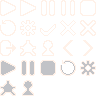
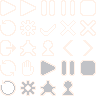
Improve rendering of touch controls

diff --git a/lib/src/appstate/Game/engine/RenderingEngine.cpp b/lib/src/appstate/Game/engine/RenderingEngine.cpp
@@ -239,12 +239,6 @@ void RenderingEngine::renderHud(dgm::Window& window)
     renderHudBackgroundAndHealth(hudOrigin, window);
     renderHudReloadTimeAndModules(hudOrigin, window);
 
-#if defined(ANDROID) || defined(_DEBUG)
-    hudSprite.setTextureRect(iconsClip.getFrame(Icon::Pause2));
-    hudSprite.setPosition({ 2.f, 2.f });
-    window.draw(hudSprite);
-#endif
-
     renderHudStrings(window);
 }
 
@@ -297,9 +291,11 @@ void RenderingEngine::renderHudReloadTimeAndModules(
 void RenderingEngine::renderHudStrings(dgm::Window& window)
 {
     text.setCharacterSize(FONT_BASE_HEIGHT);
+#ifdef _DEBUG
     text.setPosition({ 10.f, 2.f });
     text.setString(fpsCounter.getText());
     window.draw(text);
+#endif
 
     if (scene.survivalGameDirector)
     {
@@ -353,15 +349,48 @@ void RenderingEngine::renderTouchControls(dgm::Window& window)
     auto& model = touchController.getTouchModel();
     dgm::Circle thumb({ 0.f, 0.f }, 16.f);
 
-    for (auto& object : model.objects)
+    // First two objects are joysticks
+    for (auto&& object : model.objects | uni::views::take(2))
     {
         object.touchArea.debugRender(window, sf::Color(128, 128, 128, 128));
-        if (object.kind == TouchObjectKind::Joystick)
-        {
-            thumb.setPosition(object.touchPosition);
-            thumb.debugRender(window, sf::Color(128, 128, 128));
-        }
+        thumb.setPosition(object.touchPosition);
+        thumb.debugRender(window, sf::Color(128, 128, 128));
     }
+
+    const auto buttonRadius = model.objects[2].touchArea.getRadius() * 0.8f;
+
+    const auto offset = sf::Vector2f { buttonRadius, buttonRadius };
+    const auto scale = 2 * buttonRadius / iconsClip.getFrameSize().x;
+    hudSprite.setScale({ scale, scale });
+
+    // Third is pause
+    hudSprite.setTextureRect(iconsClip.getFrame(Icon::Pause2));
+    hudSprite.setPosition(model.objects[2].touchArea.getPosition() - offset);
+    window.draw(hudSprite);
+
+    // Fourth is swap
+    if (scene.loadout.weapons.size() > 1)
+    {
+        model.objects[3].touchArea.debugRender(
+            window, sf::Color(128, 128, 128, 128));
+        hudSprite.setTextureRect(iconsClip.getFrame(Icon::Swap));
+        hudSprite.setPosition(
+            model.objects[3].touchArea.getPosition() - offset);
+        window.draw(hudSprite);
+    }
+
+    // Fifth is interact
+    if (scene.interactionTrigger)
+    {
+        model.objects[4].touchArea.debugRender(
+            window, sf::Color(128, 128, 128, 128));
+        hudSprite.setTextureRect(iconsClip.getFrame(Icon::Hand));
+        hudSprite.setPosition(
+            model.objects[4].touchArea.getPosition() - offset);
+        window.draw(hudSprite);
+    }
+
+    hudSprite.setScale({ 1.f, 1.f });
 }
 
 sf::Angle

diff --git a/lib/src/input/TouchController.cpp b/lib/src/input/TouchController.cpp
@@ -15,10 +15,17 @@ void TouchInput::reset()
 }
 
 std::array<TouchInput, 5u>
-TouchModel::computeLayout(const sf::Vector2u& windowSize)
+TouchModel::computeLayout(const sf::Vector2u& windowSize, const Sizer& sizer)
 {
+    const float buttonRadius = sizer.getBaseContainerHeight();
     const float joystickRadius = windowSize.x * 0.1f;
     const auto windowsSizeF = sf::Vector2f(windowSize);
+
+    const auto rightJoystickOrigin =
+        sf::Vector2f { windowSize.x - joystickRadius,
+                       windowSize.y - joystickRadius };
+    const auto actionButtonBaseDir =
+        sf::Vector2f { 0.f, -joystickRadius - buttonRadius };
 
     return std::array {
         TouchInput(
@@ -26,25 +33,26 @@ TouchModel::computeLayout(const sf::Vector2u& windowSize)
             { joystickRadius, windowSize.y - joystickRadius },
             joystickRadius),
         TouchInput(
-            TouchObjectKind::Joystick,
-            { windowSize.x - joystickRadius, windowSize.y - joystickRadius },
-            joystickRadius),
-        TouchInput(TouchObjectKind::Button, { 100.f, 100.f }, 100.f),
-        TouchInput(
+            TouchObjectKind::Joystick, rightJoystickOrigin, joystickRadius),
+        TouchInput( // Pause
             TouchObjectKind::Button,
-            windowsSizeF
-                - 2.f * sf::Vector2f { joystickRadius, joystickRadius },
-            60.f),
-        TouchInput(
+            { buttonRadius, buttonRadius },
+            buttonRadius),
+        TouchInput( // Swap
             TouchObjectKind::Button,
-            windowsSizeF
-                - sf::Vector2f { joystickRadius, 2.f * joystickRadius },
-            60.f),
+            rightJoystickOrigin
+                + actionButtonBaseDir.rotatedBy(sf::degrees(-60)),
+            buttonRadius),
+        TouchInput( // Interact
+            TouchObjectKind::Button,
+            rightJoystickOrigin
+                + actionButtonBaseDir.rotatedBy(sf::degrees(-30)),
+            buttonRadius),
     };
 }
 
-TouchModel::TouchModel(const sf::Vector2u& windowSize)
-    : objects(computeLayout(windowSize))
+TouchModel::TouchModel(const sf::Vector2u& windowSize, const Sizer& sizer)
+    : sizer(sizer), objects(computeLayout(windowSize, sizer))
 {
 }
 

diff --git a/lib/include/input/TouchController.hpp b/lib/include/input/TouchController.hpp
@@ -1,5 +1,6 @@
 #pragma once
 
+#include "gui/Sizers.hpp"
 #include <DGM/classes/Collision.hpp>
 #include <DGM/classes/Controller.hpp>
 #include <DGM/classes/Math.hpp>
@@ -61,19 +62,20 @@ public:
 struct [[nodiscard]] TouchModel final
 {
 public:
-    explicit TouchModel(const sf::Vector2u& windowSize);
+    TouchModel(const sf::Vector2u& windowSize, const Sizer& sizer);
 
 public:
     void recomputeLayoutAfterWindowResize(const sf::Vector2u& windowSize)
     {
-        objects = computeLayout(windowSize);
+        objects = computeLayout(windowSize, sizer);
     }
 
 private:
     static std::array<TouchInput, 5u>
-    computeLayout(const sf::Vector2u& windowSize);
+    computeLayout(const sf::Vector2u& windowSize, const Sizer& sizer);
 
 public:
+    const Sizer& sizer;
     std::array<TouchInput, 5u> objects;
     std::map<unsigned, size_t>
         fingerToTouchObject = {}; ///< Each event has finger index associated
@@ -91,7 +93,8 @@ public:
 class [[nodiscard]] TouchController final
 {
 public:
-    explicit TouchController(const sf::Vector2u& windowSize) : model(windowSize)
+    explicit TouchController(const sf::Vector2u& windowSize, const Sizer& sizer)
+        : model(windowSize, sizer)
     {
     }
 

diff --git a/lib/src/misc/DependencyContainer.cpp b/lib/src/misc/DependencyContainer.cpp
@@ -17,7 +17,7 @@ DependencyContainer::DependencyContainer(
           primaryLang,
           std::map<Language, Localization<StringId>> {
               { Language::English, EN_LOCALIZATION } })
-    , touchController(settingsSM.video.resolution)
+    , touchController(settingsSM.video.resolution, sizer)
     , input(settingsSM.bindings, touchController, window.getSfmlWindowContext())
     , virtualCursor(
           window.getSfmlWindowContext(),

diff --git a/lib/include/gui/Icon.hpp b/lib/include/gui/Icon.hpp
@@ -17,6 +17,8 @@ enum class [[nodiscard]] Icon
     Lock,
     Back,
     Forward,
+    Swap,
+    Hand,
     PlayFill,
     PauseFill,
     StopFill,
